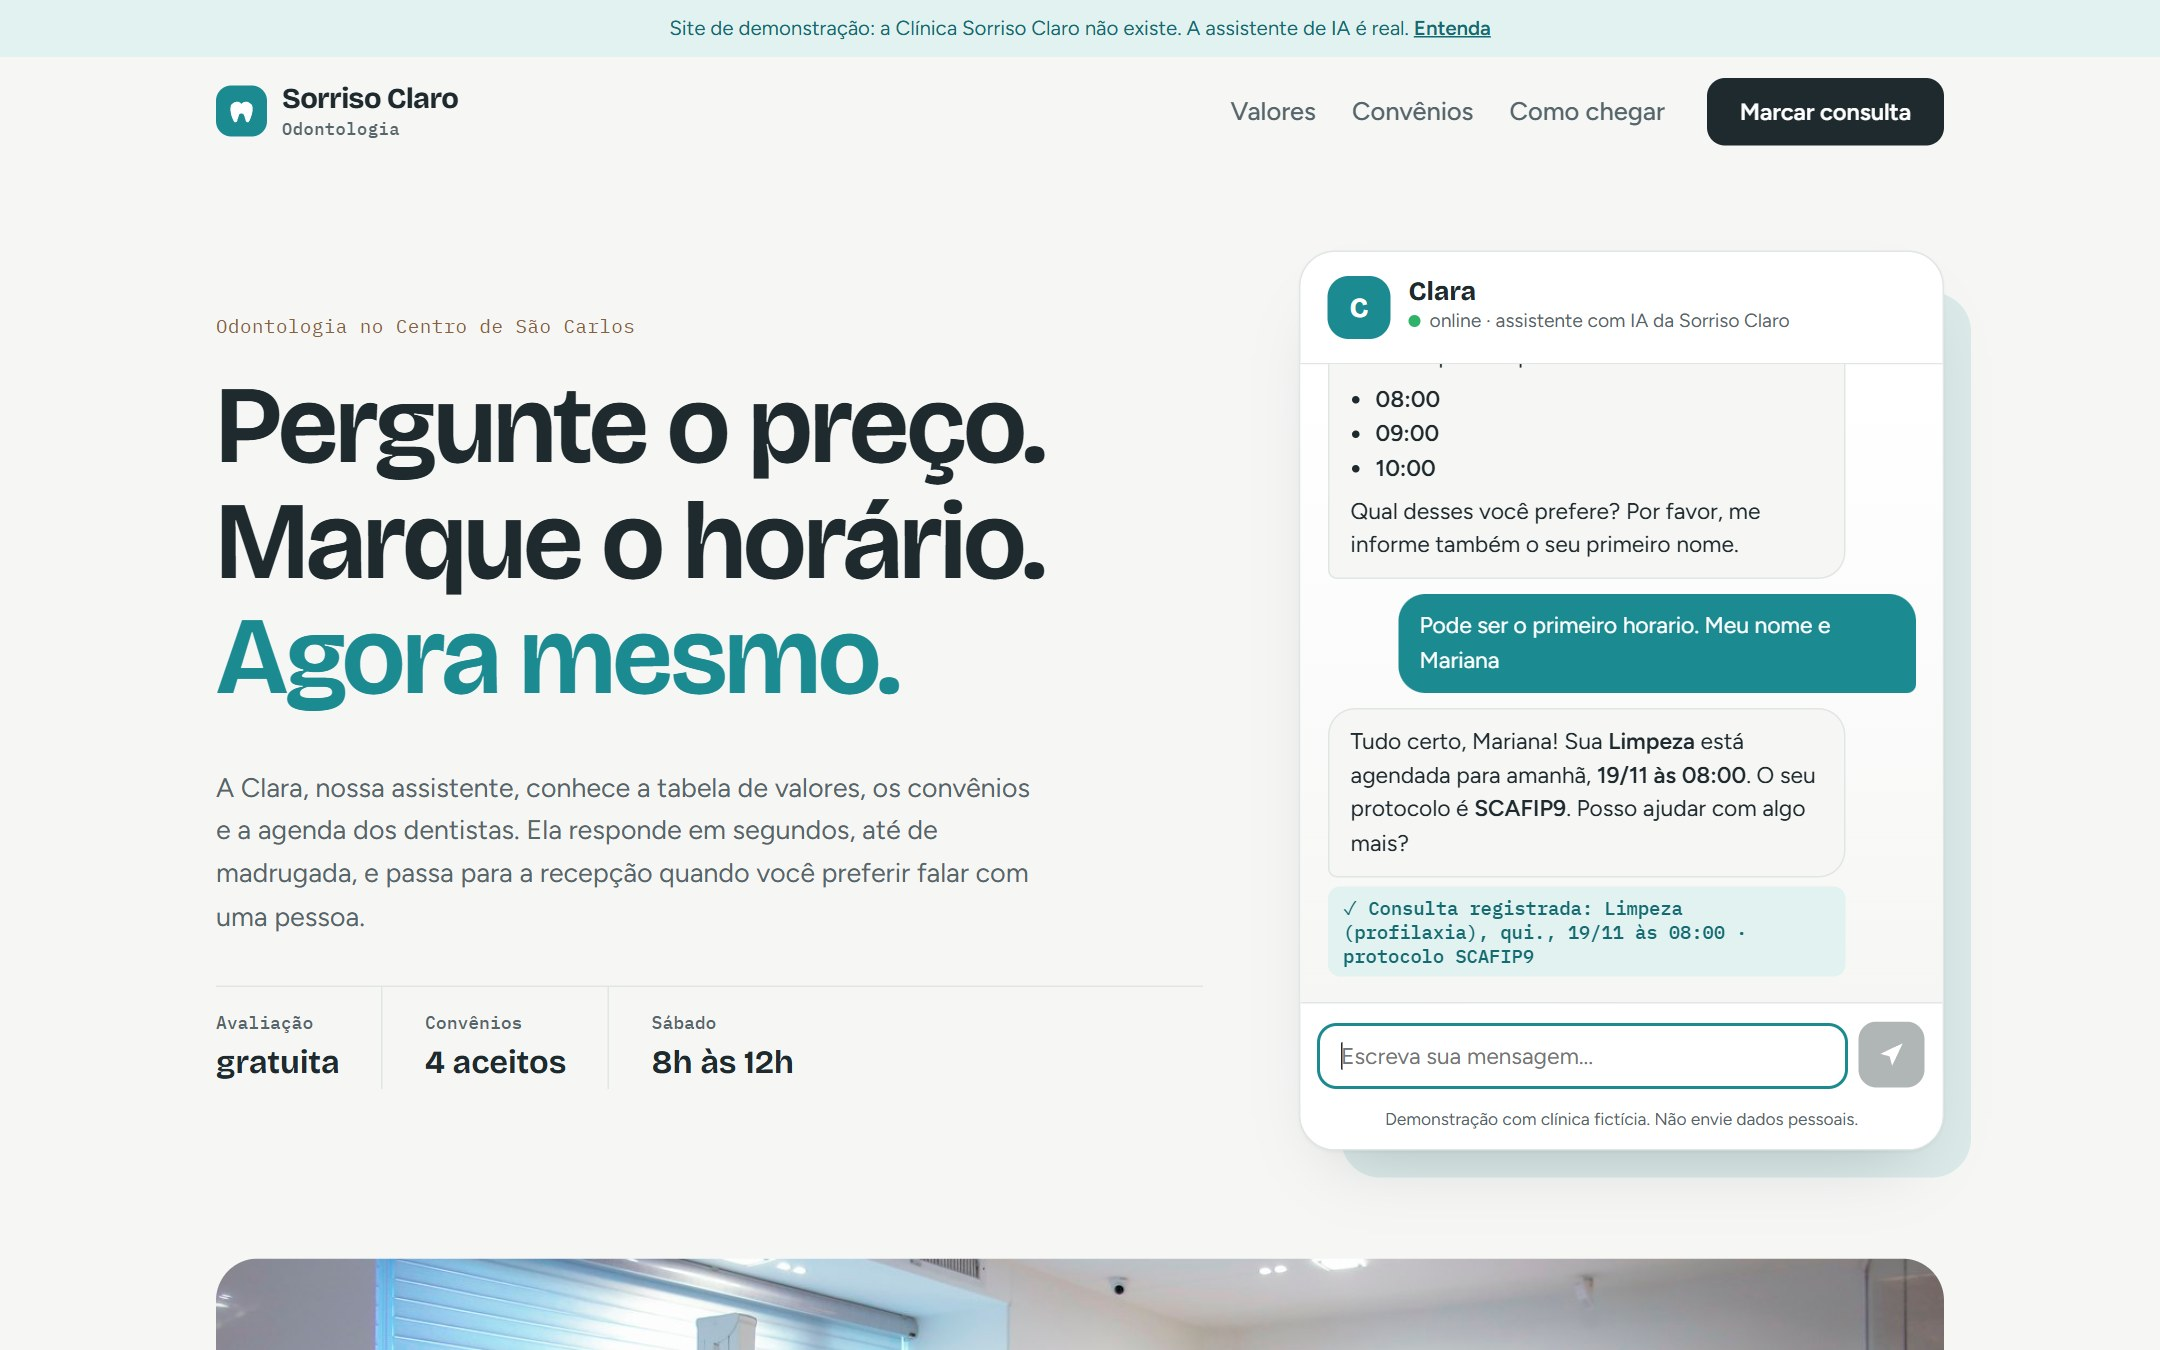
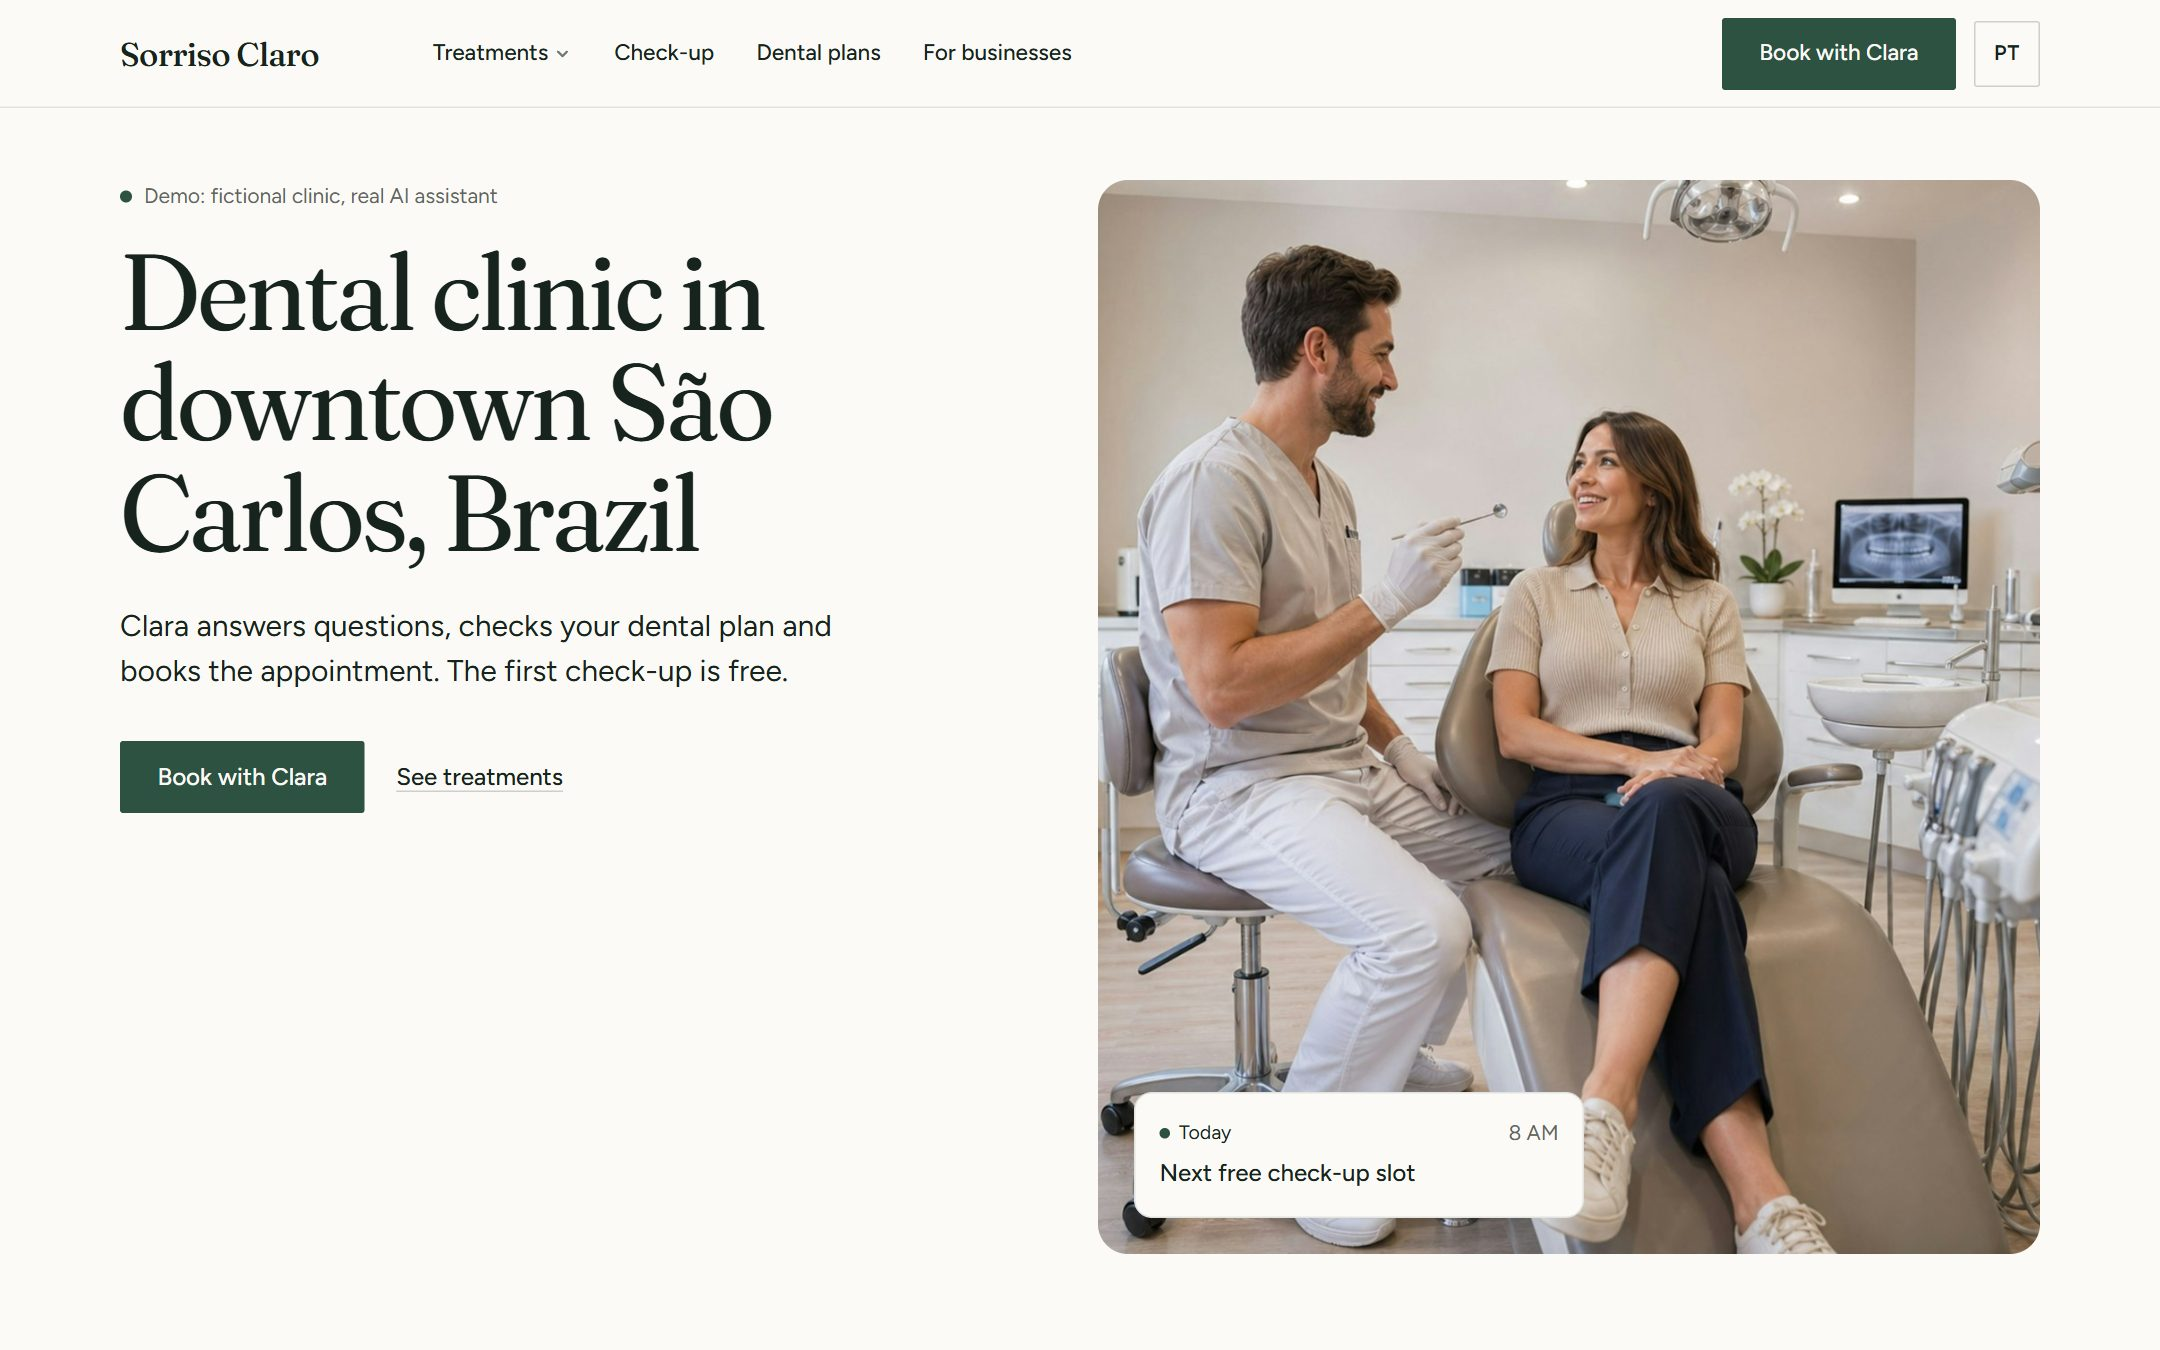
README em inglês (português em README.pt-BR.md), prints novos e nomes dos serviços em inglês

diff --git a/src/Painel.tsx b/src/Painel.tsx
@@ -1,6 +1,6 @@
 import { useEffect, useState } from 'react'
 import { formatarData, lerAgendamentos, lerTransferencias, limparTudo, type Agendamento, type Transferencia } from './store'
-import { emIngles, locale, tr } from './idioma'
+import { emIngles, locale, nomeServico, tr } from './idioma'
 
 export default function Painel() {
   const [ag, setAg] = useState<Agendamento[]>([])
@@ -47,7 +47,7 @@ export default function Painel() {
               <thead><tr><th>{tr('Dia', 'Day')}</th><th>{tr('Hora', 'Time')}</th><th>{tr('Paciente', 'Patient')}</th><th>{tr('Serviço', 'Service')}</th><th>{tr('Protocolo', 'Reference')}</th></tr></thead>
               <tbody>
                 {ag.map((a) => (
-                  <tr key={a.protocolo}><td>{formatarData(a.data)}</td><td>{a.hora}</td><td>{a.nome}</td><td>{a.servico}</td><td><code>{a.protocolo}</code></td></tr>
+                  <tr key={a.protocolo}><td>{formatarData(a.data)}</td><td>{a.hora}</td><td>{a.nome}</td><td>{nomeServico(a.servico)}</td><td><code>{a.protocolo}</code></td></tr>
                 ))}
               </tbody>
             </table>

diff --git a/src/Chat.tsx b/src/Chat.tsx
@@ -1,6 +1,6 @@
 import { Fragment, useEffect, useRef, useState } from 'react'
 import { formatarData, lerAgendamentos, salvarAgendamento, salvarTransferencia } from './store'
-import { emIngles, idioma, tr } from './idioma'
+import { emIngles, idioma, nomeServico, tr } from './idioma'
 
 type Msg = { role: 'user' | 'assistente'; texto: string; aviso?: string }
 
@@ -75,7 +75,7 @@ export default function Chat() {
         if (a.tipo === 'agendamento') {
           salvarAgendamento({ ...a, criadoEm })
           aviso = emIngles
-            ? `Appointment saved: ${a.servico}, ${formatarData(a.data)} at ${a.hora} · reference ${a.protocolo}`
+            ? `Appointment saved: ${nomeServico(a.servico)}, ${formatarData(a.data)} at ${a.hora} · reference ${a.protocolo}`
             : `Consulta registrada: ${a.servico}, ${formatarData(a.data)} às ${a.hora} · protocolo ${a.protocolo}`
         }
         if (a.tipo === 'transferencia') {

diff --git a/src/idioma.ts b/src/idioma.ts
@@ -23,6 +23,18 @@ export const locale = emIngles ? 'en-US' : 'pt-BR'
 /** O texto em português e, ao lado, o mesmo em inglês. */
 export const tr = (pt: string, en: string) => (emIngles ? en : pt)
 
+// Nomes dos serviços em inglês (os dados da clínica estão em português).
+const SERVICOS_EN: Record<string, string> = {
+  'Avaliação inicial': 'Initial check-up',
+  'Limpeza (profilaxia)': 'Cleaning',
+  'Clareamento dental': 'Teeth whitening',
+  'Restauração em resina': 'Composite filling',
+  'Tratamento de canal': 'Root canal',
+  'Aparelho ortodôntico': 'Orthodontic braces',
+  'Implante dentário': 'Dental implant',
+}
+export const nomeServico = (pt: string) => (emIngles ? SERVICOS_EN[pt] || pt : pt)
+
 /** Endereço da mesma página no outro idioma (mantém a âncora). */
 export function linkOutroIdioma() {
   const u = new URL(window.location.href)

diff --git a/src/styles.css b/src/styles.css
@@ -178,6 +178,13 @@ html.pl-rodape .actionbar { opacity: 0 !important; visibility: hidden; pointer-e
 }
 .nav__lang:hover { background: var(--surface, rgba(0,0,0,.04)); border-color: var(--ink); }
 .nav__lang:focus-visible { outline: 2px solid var(--action); outline-offset: 2px; }
+/* no computador fica colado ao botão principal, não a um vão inteiro da barra */
+@media (min-width: 1024px) {
+  .nav__actions + .nav__lang { margin-left: calc(var(--s-3) - var(--s-8)); }
+}
+@media (min-width: 1024px) and (max-width: 1279px) {
+  .nav__actions + .nav__lang { margin-left: calc(var(--s-3) - var(--s-6)); }
+}
 @media (max-width: 1023px) {
   .nav__lang { margin-left: auto; }
   .nav__lang + .nav__toggle { margin-left: var(--s-2); }

diff --git a/README.md b/README.md
@@ -1,50 +1,60 @@
-# Clara · assistente de IA para clínicas (demo)
+# Clara · AI receptionist for clinics (demo)
 
-Site de uma clínica odontológica **fictícia** com uma assistente de IA que tira dúvidas sobre preços e convênios, consulta a agenda e marca consultas sozinha.
+**English** · [Português](README.pt-BR.md)
 
-**Teste ao vivo:** https://clinica-ia-demo-alan.vercel.app
+Clara is an AI assistant for a **fictional** dental clinic in Brazil. She answers questions about prices and dental plans, checks the schedule and books appointments on her own, on the website and on WhatsApp.
 
-![Site com a conversa de agendamento](docs/home.jpg)
+**Live demo:** https://clinica-ia-demo-alan.vercel.app/?lang=en (the site has an EN / PT switch, and Clara replies in the visitor's language)
 
-## O que ela faz
+![The clinic website in English](docs/home.jpg)
 
-- Responde sobre tratamentos, valores, convênios, horários e endereço usando **apenas** os dados cadastrados da clínica. Se não souber, oferece passar para a recepção em vez de inventar.
-- Consulta horários livres e agenda a consulta. O horário é **validado no servidor** antes de confirmar, então a IA não consegue marcar em cima de outra consulta.
-- Encaminha para um atendente humano quando o paciente pede, reclama ou o assunto foge do roteiro.
-- Mostra consultas marcadas e transferências num **painel da recepção** (`/painel`).
+## What she does
 
-## Como funciona
+- Answers about treatments, prices, dental plans, hours and address using **only** the clinic's own data. When she does not know, she offers to hand over to the front desk instead of making something up.
+- Checks free slots and books the appointment. Every slot is **validated on the server** before it is confirmed, so the AI cannot double-book.
+- Hands the chat to a person when the patient asks for one, complains, or goes off script. She never gives a diagnosis; urgent pain gets the nearest free slot.
+- Shows bookings and handovers in a **front-desk dashboard** (`/painel`).
+- Runs on **WhatsApp** through Meta's official Cloud API, with the same rules and schedule as the website.
+
+![A real booking conversation](docs/conversation.jpg)
+
+## How it works
 
 ```
-Navegador (React)  →  /api/chat (função serverless)  →  Google Gemini
-                           │
-                           ├─ ver_horarios        (agenda gerada e filtrada no servidor)
-                           ├─ agendar_consulta    (valida o horário, gera protocolo)
-                           └─ transferir_para_recepcao
+Website (React)          →  /api/chat      ─┐
+WhatsApp (Meta Cloud API) →  /api/whatsapp  ─┴→  shared agent  →  Google Gemini
+                                                    │
+                                                    ├─ ver_horarios              (free slots, filtered on the server)
+                                                    ├─ agendar_consulta          (validates the slot, issues a reference)
+                                                    └─ transferir_para_recepcao  (hands over to a person)
 ```
 
-A IA só interpreta a mensagem e redige a resposta. As regras de negócio (horários, preços, validação do agendamento) ficam no código, via *function calling*.
+The model only reads the message and writes the reply. Business rules (hours, prices, booking validation) live in the code and are reached through **function calling**.
 
-- **Front-end:** React 18 + TypeScript + Vite, CSS próprio, responsivo.
-- **Back-end:** função serverless em TypeScript (Vercel; também roda no Netlify), com limite de mensagens por IP.
-- **IA:** Google Gemini com function calling e lista de modelos de reserva.
-- **Dados da clínica:** `shared/clinica.ts` (trocar esse arquivo adapta a demo para outro negócio).
+- **Front end:** React 18, TypeScript and Vite, hand-written CSS, responsive, bilingual (`src/idioma.ts`).
+- **Back end:** TypeScript serverless functions on Vercel, with per-IP and per-number rate limits.
+- **AI:** Google Gemini with function calling and a fallback list of models.
+- **WhatsApp:** webhook in `shared/whatsapp.ts`.
+  - Checks Meta's `X-Hub-Signature-256` signature and answers each message once, even when Meta resends it.
+  - Keeps a short chat history per number (optionally in Upstash Redis) and alerts the front desk of each booking or handover.
+  - Setup guide (in Portuguese): [WHATSAPP.md](WHATSAPP.md).
+- **Clinic data:** `shared/clinica.ts`. Replacing this file adapts the demo to another business.
 
-| Celular | Painel da recepção |
+| Phone | Front-desk dashboard |
 | --- | --- |
-| ![Versão celular](docs/celular.jpg) | ![Painel](docs/painel.jpg) |
+| ![Phone version](docs/mobile.jpg) | ![Dashboard](docs/dashboard.jpg) |
 
-## Rodar localmente
+## Run locally
 
 ```bash
 npm install
 npx vercel dev
 ```
 
-Defina `GEMINI_API_KEY` (e opcionalmente `GEMINI_MODEL`) num arquivo `.env` para usar sua própria chave do Google AI Studio.
+Set `GEMINI_API_KEY` (and optionally `GEMINI_MODEL`) in a `.env` file to use your own Google AI Studio key. The WhatsApp variables are listed at the top of `shared/whatsapp.ts`.
 
 ---
 
-Feito por **Alan Souza**, desenvolvedor full-stack e de IA em São Carlos-SP · [alansouza.netlify.app](https://alansouza.netlify.app)
+Built by **Alan Souza**, full-stack and AI developer in Brazil · [alansouza.netlify.app](https://alansouza.netlify.app) · [LinkedIn](https://linkedin.com/in/alanvasconi)
 
-A Clínica Sorriso Claro não existe. Fotos: Unsplash.
+Sorriso Claro does not exist. Photos: Unsplash.

diff --git a/README.pt-BR.md b/README.pt-BR.md
@@ -1,0 +1,60 @@
+# Clara · assistente de IA para clínicas (demo)
+
+[English](README.md) · **Português**
+
+A Clara é a assistente de IA de uma clínica odontológica **fictícia**. Ela tira dúvidas sobre preços e convênios, consulta a agenda e marca consultas sozinha, no site e no WhatsApp.
+
+**Teste ao vivo:** https://clinica-ia-demo-alan.vercel.app (o site tem troca PT / EN, e a Clara responde no idioma de quem escreve)
+
+![Site da clínica](docs/home.jpg)
+
+## O que ela faz
+
+- Responde sobre tratamentos, valores, convênios, horários e endereço usando **apenas** os dados cadastrados da clínica. Se não souber, oferece passar para a recepção em vez de inventar.
+- Consulta horários livres e agenda a consulta. O horário é **validado no servidor** antes de confirmar, então a IA não consegue marcar em cima de outra consulta.
+- Encaminha para um atendente humano quando o paciente pede, reclama ou o assunto foge do roteiro. Não dá diagnóstico; dor forte ganha o horário livre mais próximo.
+- Mostra consultas marcadas e transferências num **painel da recepção** (`/painel`).
+- Atende no **WhatsApp** pela API oficial da Meta, com as mesmas regras e a mesma agenda do site.
+
+![Uma conversa de agendamento real](docs/conversation.jpg)
+
+## Como funciona
+
+```
+Site (React)               →  /api/chat      ─┐
+WhatsApp (API da Meta)     →  /api/whatsapp  ─┴→  agente compartilhado  →  Google Gemini
+                                                      │
+                                                      ├─ ver_horarios              (agenda filtrada no servidor)
+                                                      ├─ agendar_consulta          (valida o horário, gera protocolo)
+                                                      └─ transferir_para_recepcao  (passa para uma pessoa)
+```
+
+A IA só interpreta a mensagem e redige a resposta. As regras de negócio (horários, preços, validação do agendamento) ficam no código, via *function calling*.
+
+- **Front-end:** React 18, TypeScript e Vite, CSS próprio, responsivo e bilíngue (`src/idioma.ts`).
+- **Back-end:** funções serverless em TypeScript no Vercel, com limite de mensagens por IP e por número.
+- **IA:** Google Gemini com function calling e lista de modelos de reserva.
+- **WhatsApp:** webhook em `shared/whatsapp.ts`.
+  - Confere a assinatura da Meta e responde cada mensagem uma vez só.
+  - Guarda o histórico curto de cada número (opcionalmente no Upstash Redis) e avisa a recepção de agendamentos e transferências.
+  - Passo a passo da configuração: [WHATSAPP.md](WHATSAPP.md).
+- **Dados da clínica:** `shared/clinica.ts`. Trocar esse arquivo adapta a demo para outro negócio.
+
+| Celular | Painel da recepção |
+| --- | --- |
+| ![Versão celular](docs/mobile.jpg) | ![Painel](docs/dashboard.jpg) |
+
+## Rodar localmente
+
+```bash
+npm install
+npx vercel dev
+```
+
+Defina `GEMINI_API_KEY` (e opcionalmente `GEMINI_MODEL`) num arquivo `.env` para usar sua própria chave do Google AI Studio. As variáveis do WhatsApp estão listadas no topo de `shared/whatsapp.ts`.
+
+---
+
+Feito por **Alan Souza**, desenvolvedor full-stack e de IA em São Carlos-SP · [alansouza.netlify.app](https://alansouza.netlify.app)
+
+A Clínica Sorriso Claro não existe. Fotos: Unsplash.
